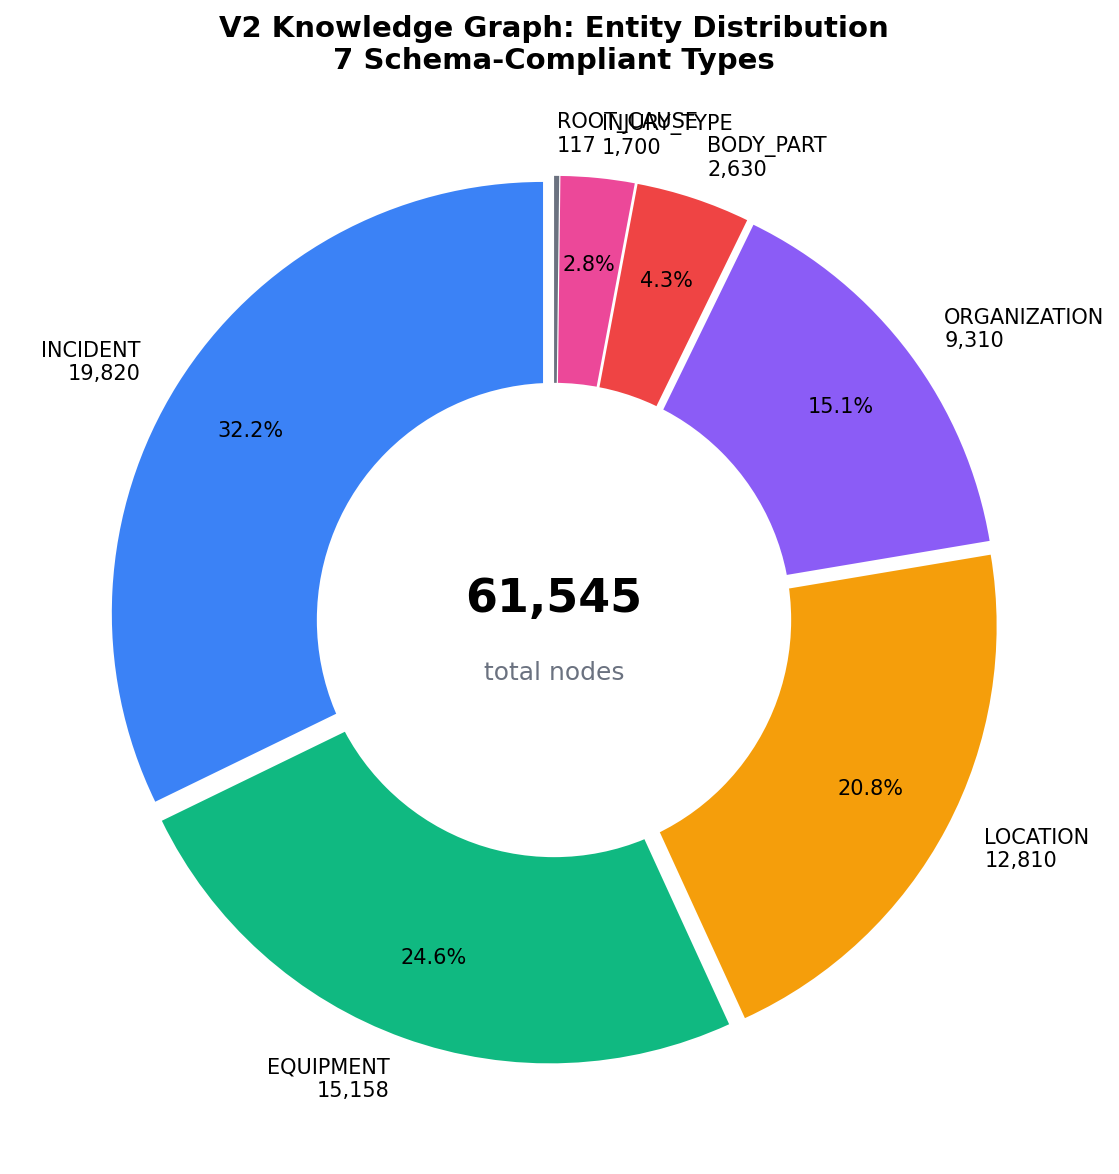
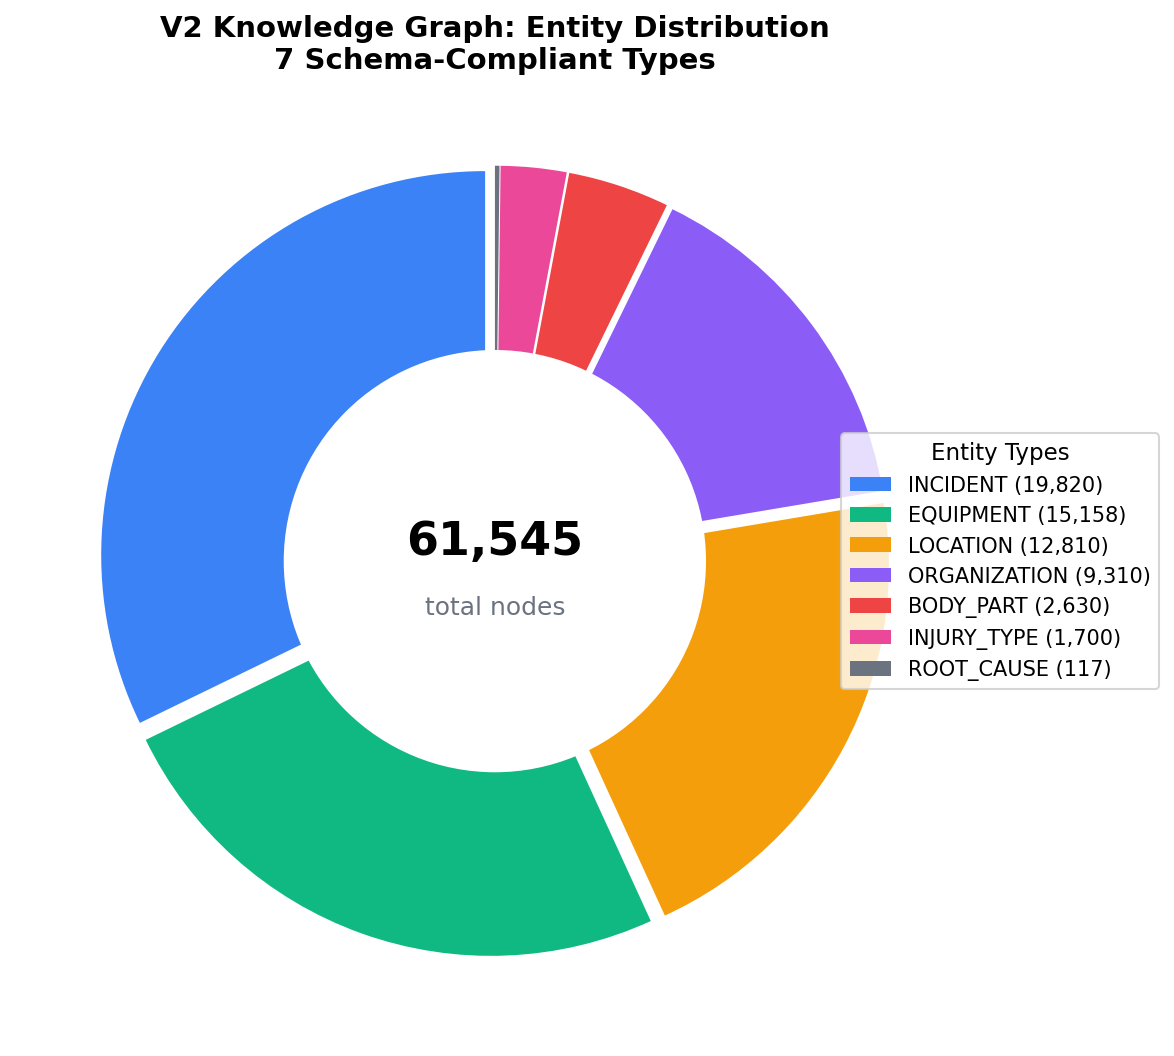
Add entity pair labeling guide, fix entity distribution chart
- LABELING_GUIDE.md: step-by-step instructions for annotators to label
  200 priority entity pairs (decision rules, examples, time estimates)
- Fix donut chart: move labels to legend to prevent text overlap on
  small slices (BODY_PART, INJURY_TYPE, ROOT_CAUSE)

diff --git a/eda/v2_design/visualizations/report_charts.py b/eda/v2_design/visualizations/report_charts.py
@@ -150,18 +150,23 @@ print("✓ chart_benchmark_coverage.png")
 # ═══════════════════════════════════════════════════════════════════════════
 fig, ax = plt.subplots(figsize=(8, 8))
 
-labels = ["INCIDENT\n19,820", "EQUIPMENT\n15,158", "LOCATION\n12,810",
-          "ORGANIZATION\n9,310", "BODY_PART\n2,630", "INJURY_TYPE\n1,700",
-          "ROOT_CAUSE\n117"]
+labels = ["INCIDENT", "EQUIPMENT", "LOCATION",
+          "ORGANIZATION", "BODY_PART", "INJURY_TYPE",
+          "ROOT_CAUSE"]
 sizes = [19820, 15158, 12810, 9310, 2630, 1700, 117]
 colors = ["#3B82F6", "#10B981", "#F59E0B", "#8B5CF6", "#EF4444", "#EC4899", "#6B7280"]
 explode = (0.03, 0.03, 0.03, 0.03, 0.03, 0.03, 0.03)
 
 wedges, texts, autotexts = ax.pie(
-    sizes, labels=labels, colors=colors, explode=explode,
-    autopct=lambda p: f"{p:.1f}%" if p > 2 else "",
-    pctdistance=0.8, startangle=90, textprops={"fontsize": 10}
+    sizes, colors=colors, explode=explode,
+    autopct="", startangle=90, textprops={"fontsize": 10}
 )
+
+# Custom legend instead of overlapping labels
+legend_labels = [f"{l} ({s:,})" for l, s in zip(labels, sizes)]
+ax.legend(wedges, legend_labels, title="Entity Types", loc="center left",
+          bbox_to_anchor=(0.85, 0, 0.5, 1), fontsize=10, title_fontsize=11)
+
 # Donut hole
 centre = plt.Circle((0, 0), 0.55, fc="white")
 ax.add_artist(centre)

diff --git a/pipeline_v2/er_prep/LABELING_GUIDE.md b/pipeline_v2/er_prep/LABELING_GUIDE.md
@@ -1,0 +1,108 @@
+# Entity Pair Labeling Guide
+
+## What This Is
+
+The knowledge graph has ~61,000 entity nodes extracted from 19,820 safety incident reports. Many of these are duplicates with slightly different text: "Forklift" vs "Fork Lift" vs "FLT", or "left hand" vs "hand". We need human labels to tell us which pairs refer to the same real-world thing and which are genuinely different.
+
+Your labels will train a probabilistic entity resolution model (Splink) that merges duplicates at scale.
+
+## What You'll Label
+
+**File to fill out:** `pairwise_labels_review_priority.csv` (200 pairs, ~30-45 min)
+
+Each row is a candidate pair of entities. You fill in the `is_match` column:
+
+| Value | Meaning |
+|-------|---------|
+| `1` | **Same entity** — these refer to the same real-world thing and should be merged |
+| `0` | **Different entities** — these are genuinely distinct and must stay separate |
+
+## How to Open and Edit
+
+1. Open `pipeline_v2/er_prep/pairwise_labels_review_priority.csv` in Excel or Google Sheets
+2. The first column `is_match` is empty — that's what you fill in
+3. Save as CSV when done (do not change any other columns)
+
+## Columns Explained
+
+| Column | What It Means |
+|--------|---------------|
+| `is_match` | **YOU FILL THIS IN.** 1 = same, 0 = different |
+| `type` | Entity type (EQUIPMENT, LOCATION, ORGANIZATION, etc.) |
+| `title_l` | Left entity text |
+| `title_r` | Right entity text |
+| `score` | Text similarity (0-1). Higher = more similar looking |
+| `nums_l` / `nums_r` | Numbers extracted from each entity |
+| `num_jaccard` | How much the numbers overlap (0 = totally different numbers, 1 = same numbers) |
+| `num_mismatch` | `True` if the entities have different numbers |
+| `risk_score` | How risky this pair is to get wrong (higher = more impactful) |
+
+**You only need to look at `type`, `title_l`, `title_r`, and the number columns.** The rest is for the model.
+
+## Decision Rules
+
+### The #1 Rule: Numbers Matter
+
+Entities with different identifying numbers are almost always **different things**, even if the text looks nearly identical.
+
+| Pair | Numbers | Label | Why |
+|------|---------|-------|-----|
+| "Pump 1A" vs "Pump 2A" | 1A vs 2A | **0** (different) | Different pump units |
+| "DEEP-C DREDGER (SD-038)" vs "DEEP-C DREDGER (SD-120)" | 038 vs 120 | **0** (different) | Different vessels |
+| "COMPANY VEHICLE LD3704" vs "COMPANY VEHICLE LD3890" | 3704 vs 3890 | **0** (different) | Different vehicles |
+
+**If `num_mismatch` is `True`, the answer is almost always `0`.**
+
+### When to Label `1` (Same Entity)
+
+- **Spelling/capitalization variants:** "forklift" vs "Fork Lift" vs "Forklift"
+- **Abbreviation vs full name:** "ROV" vs "Remotely Operated Vehicle"
+- **Punctuation differences:** "ROLLER PATHS" vs "ROLLER-PATHS"
+- **Laterality stripped (body parts):** "left hand" vs "hand" — label `1` only if you believe these should be merged for analysis purposes (we track laterality as a modifier, not a separate entity)
+- **Legal suffix differences (orgs):** "TECHNIPFMC PLC" vs "TECHNIPFMC"
+
+### When to Label `0` (Different Entity)
+
+- **Different numbers/identifiers** (see rule above)
+- **Different equipment units:** "Crane 1" vs "Crane 2"
+- **Different locations with similar names:** "Production Shop 2" vs "Production Shop 02" — check if the numbers match (here 2 == 02, so this is `1`)
+- **Genuinely different things:** "back" (body part) vs "back deck" (location)
+
+### When You're Unsure
+
+If a pair is genuinely ambiguous, label it `0` (don't merge). It's safer to leave duplicates separate than to wrongly merge different things. The pipeline has a guardrail that catches over-merging, but it can't undo a bad merge.
+
+## Examples
+
+| type | title_l | title_r | is_match | Reasoning |
+|------|---------|---------|----------|-----------|
+| EQUIPMENT | ROLLER PATHS | ROLLER-PATHS | **1** | Same thing, punctuation difference |
+| EQUIPMENT | DEEP-C DREDGER (SD-038) | DEEP-C DREDGER (SD-120) | **0** | Different vessel IDs |
+| ORGANIZATION | LLC VELESTOY | LLC VELESSTROY | **1** | Likely same org, typo |
+| LOCATION | DECK | DECK 'B' | **0** | Different deck sections |
+| BODY_PART | left ancle | ancle | **1** | Same body part, laterality stripped |
+| EQUIPMENT | STBD AIR CONDITION COMPRESSOR UNIT 2 | STBD AIR CONDITION COMPRESSOR UNIT 1 | **0** | Different unit numbers |
+| LOCATION | PRODUCTION SHOP 2 | PRODUCTION SHOP 02 | **1** | Same number (2 == 02) |
+
+## After Labeling
+
+Save the CSV and notify the team. The labeled file is consumed by:
+```
+pipeline_v2/er_prep/splink_config/  (Splink model training configs)
+```
+
+With 200 labeled pairs, Splink can learn entity-type-specific merge thresholds that outperform the current fixed 0.90 similarity cutoff. The model uses your labels plus the similarity scores, number overlap, and blocking features to predict matches across all 10,140 candidate pairs.
+
+## Priority File vs Full File
+
+| File | Pairs | What It Contains |
+|------|-------|------------------|
+| `pairwise_labels_review_priority.csv` | 200 | **Start here.** Highest-risk pairs where the model is most uncertain |
+| `pairwise_labels_review.csv` | 500 | Broader sample across all entity types. Label after priority batch if time permits |
+| `merge_candidates.csv` | 10,140 | All candidates — the model predicts these after training on your labels |
+
+## Time Estimate
+
+- Priority batch (200 pairs): **30-45 minutes**
+- Full batch (500 pairs): **1-2 hours**
+- Most pairs with `num_mismatch=True` are instant `0` decisions
